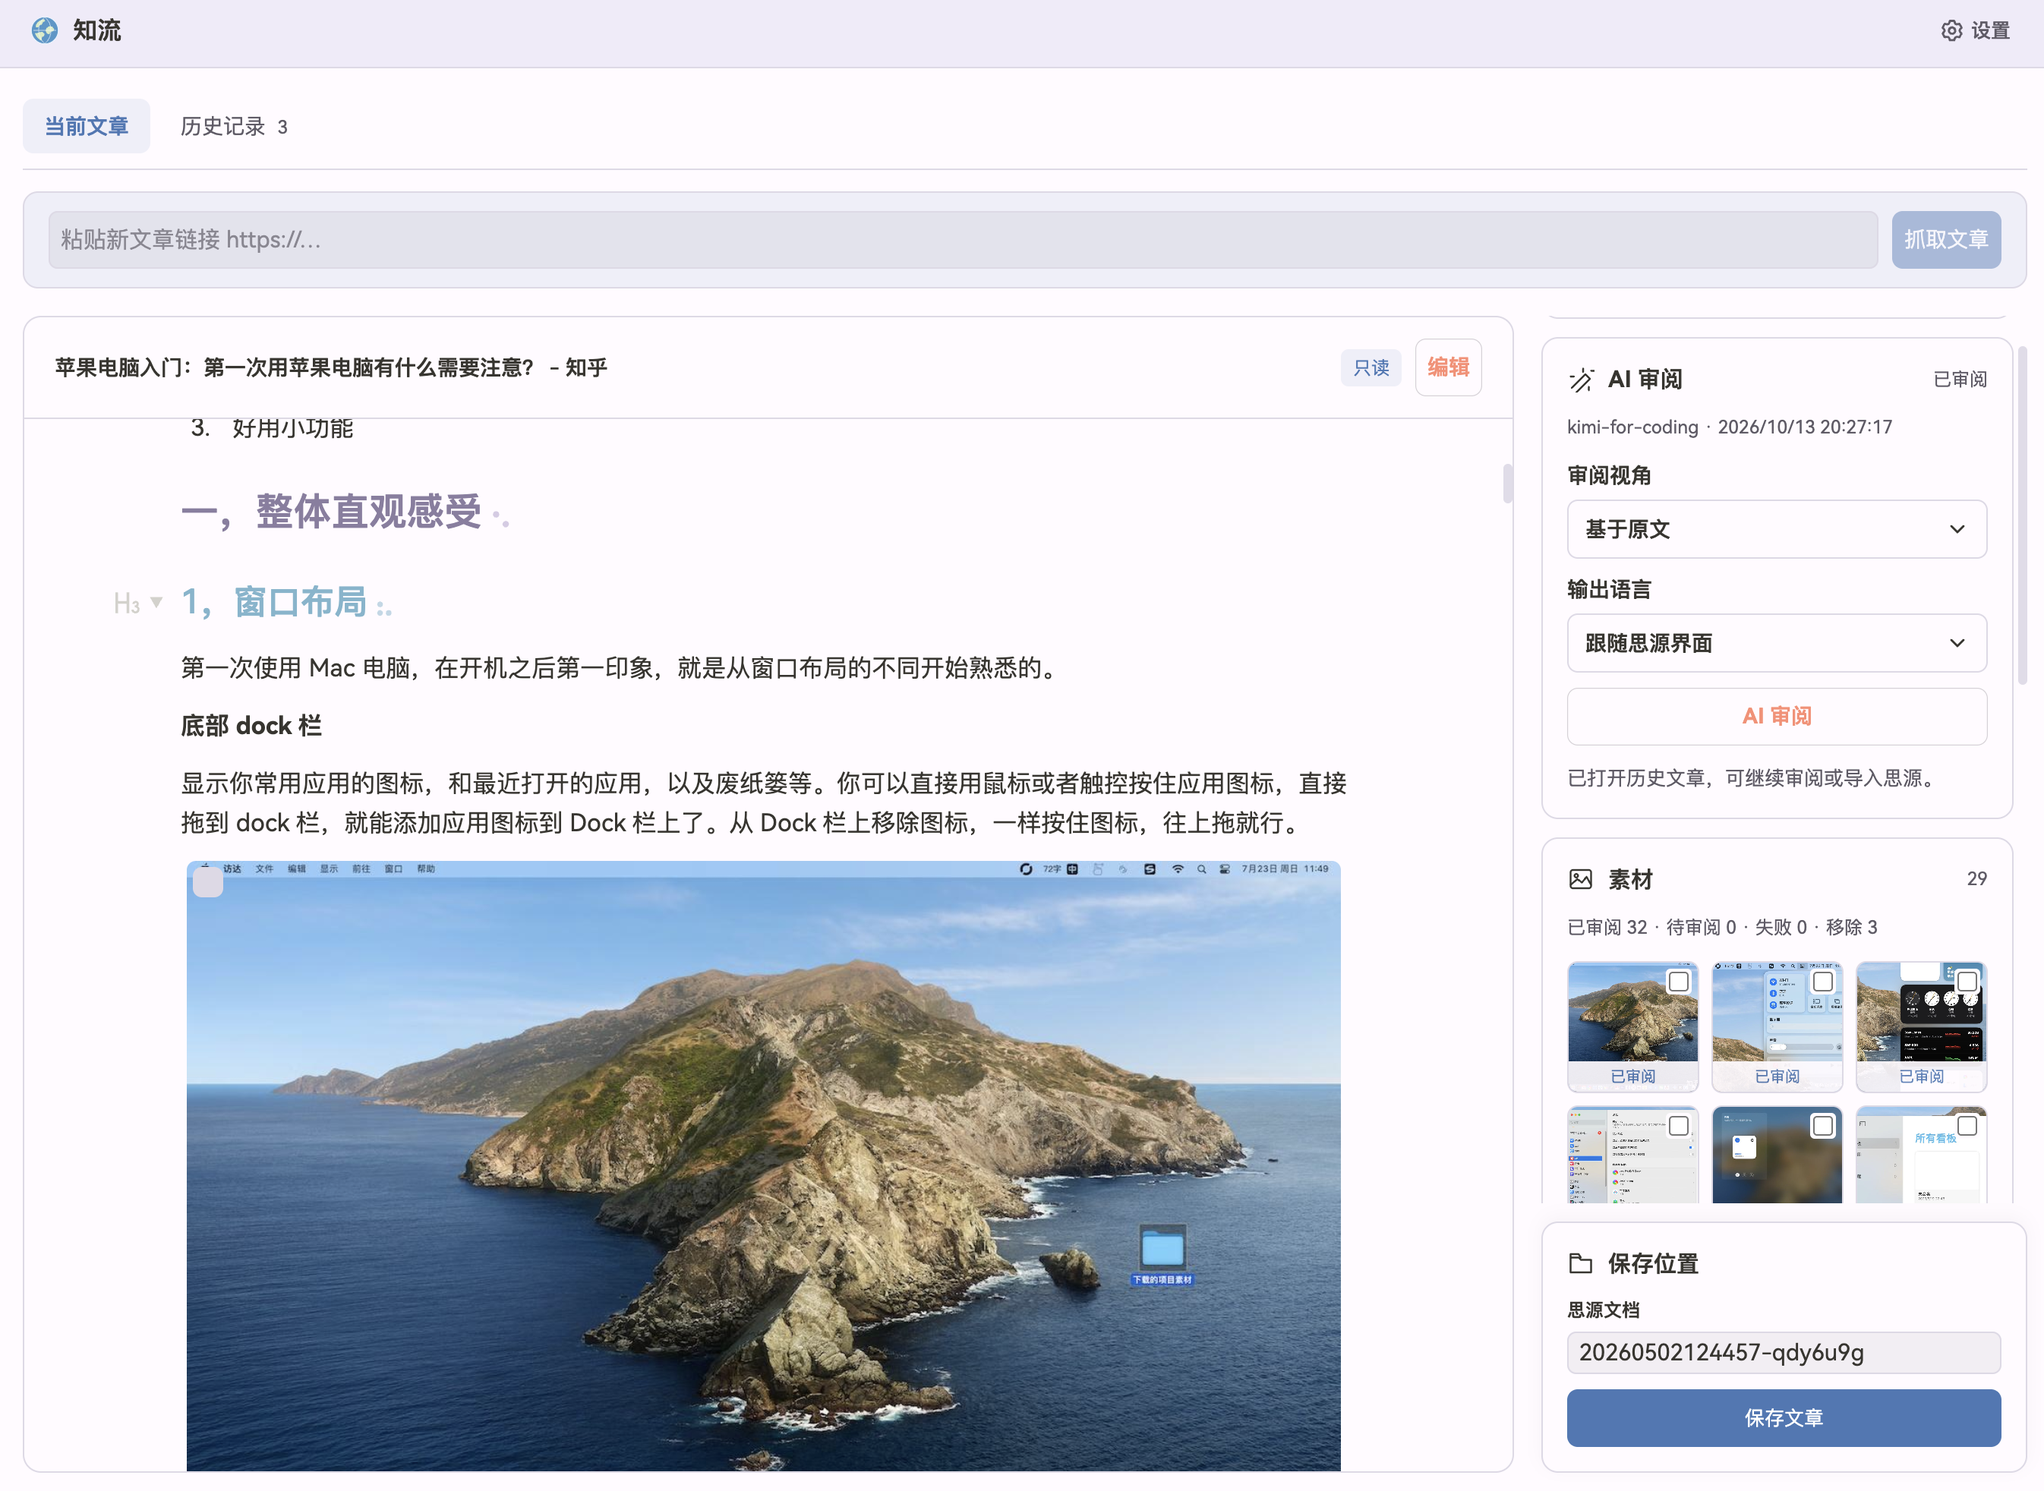
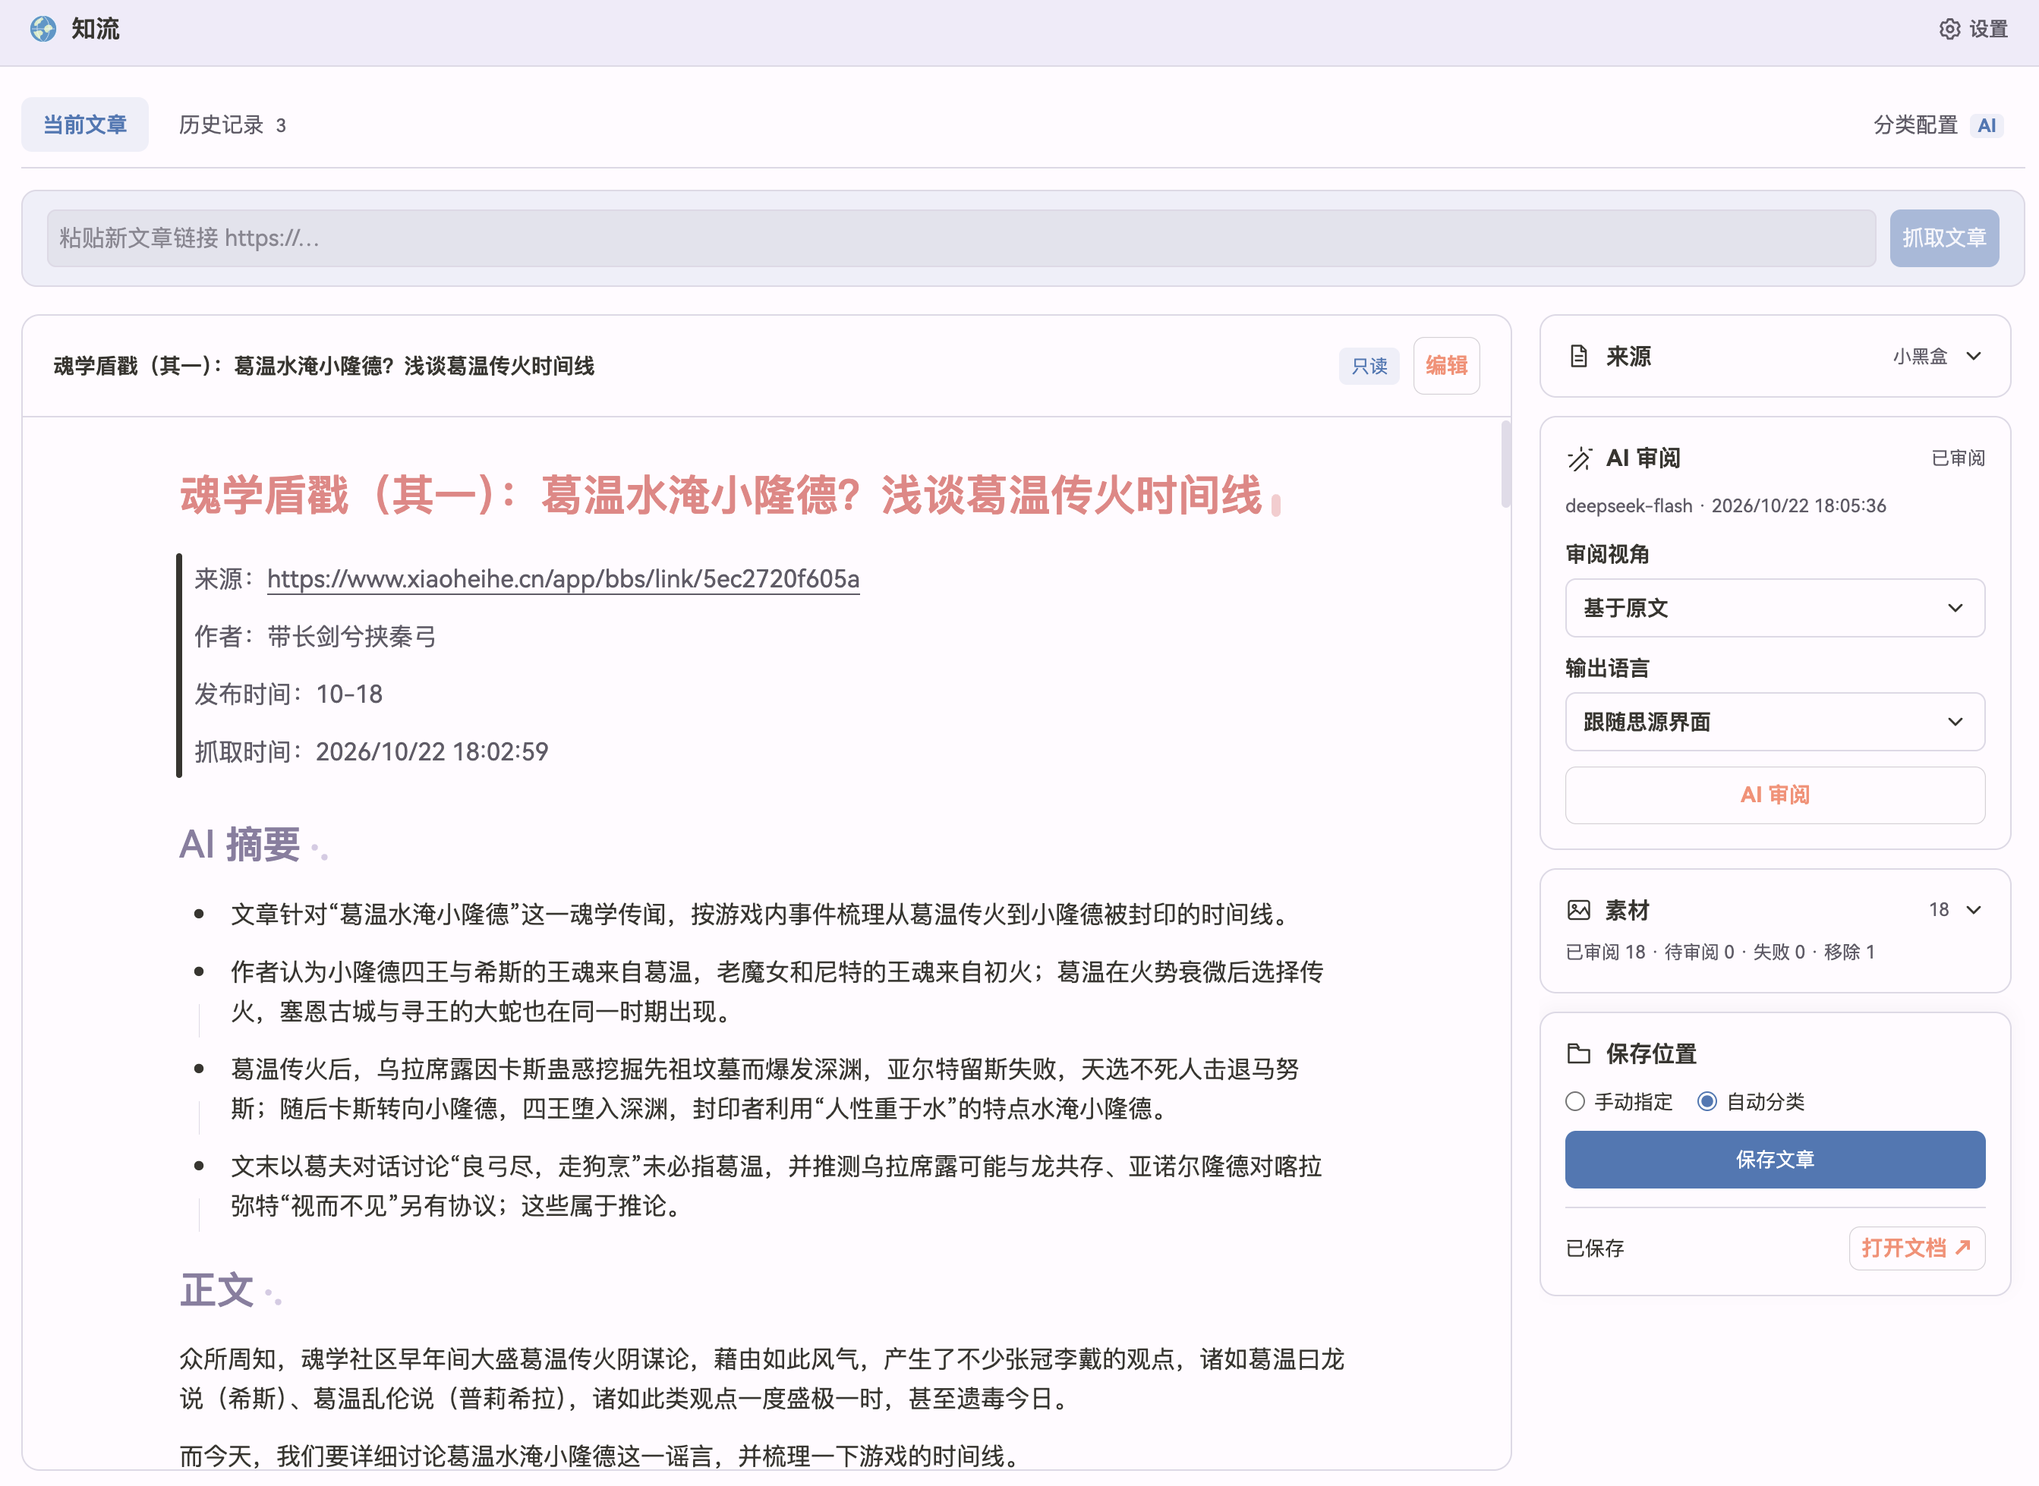
docs: 同步英文 README 和分类截图

diff --git a/.docs/README.en.md b/.docs/README.en.md
@@ -2,82 +2,68 @@
 
 [简体中文](../README.md)
 
-Capture web articles inside SiYuan, optionally review them with AI, edit them with SiYuan's native block editor, and save the text, source metadata and images to your workspace.
-
-**Web capture requires a Firecrawl API key. AI review is optional and requires your own model service configuration.** The plugin interface is primarily in Simplified Chinese; AI output can use the source language, Simplified Chinese or English.
+Capture web articles in SiYuan, optionally review them with AI, edit them with the native editor, and automatically classify them. Save the text, sources and images to your workspace.
 
 ## Features
 
-- Capture article text, images and available source metadata from a public URL.
-- Keep the captured original or review it with a configured model, perspective, output language and article format.
-- Edit inside the existing dialog with SiYuan's native block editor. Confirming an edit keeps it in the plugin; saving imports it into a SiYuan document.
-- Optionally review images, then manually restore or remove them before saving. Downloaded images go to SiYuan's asset directory; failed downloads retain their original links.
-- Preserve source metadata in separate paragraphs and keep searchable article history with processing results and destination choices.
-- Set the actual document title when saving to an empty unnamed document. Append an article to an existing document without replacing its content.
-- Automatically classify reviewed articles using category names, paths and descriptions. Manage nested categories and keep their directories updated as documents change.
-
-Protected image and link references receive up to three short AI repair attempts if damaged. If repair still fails, the reviewed text and original image inventory are retained for manual confirmation before saving.
-
-While editing, click thumbnails to select multiple images in order, then use Add or Remove in the asset toolbar. Add inserts the images at the caret or replaces the selected text in selection order; insertion never defaults to the article's end. Remove deletes all instances of the selected images from the body while keeping the originals available for reuse. Body edits, undo and redo also update asset status. Double-click to preview while editing, or single-click in read-only mode. Image details only show a preview; native drag, formatting and draft recovery are preserved.
-
-All platforms wait five seconds before article extraction to allow dynamic content to load. WeChat captures can fill missing author and publication fields from explicit article metadata and remove reader or comment interface text. Old and new Xiaoheihe share links are normalized to article URLs, with title cleanup and recovery. Recognized article cards provide missing author and date fields; comments and recommendations are removed while article images and polls are preserved. Zhihu login or verification pages are reported as capture failures.
-
-## Requirements
-
-Requires **SiYuan 3.8.6 or later**. The declared environments are Windows, macOS and Linux desktop clients, desktop windows, and desktop browser frontends, including Docker deployments. Mobile clients and SiYuan publishing-service pages are outside the supported scope.
+- **Web capture**: Extract article text, images and available source metadata, such as the author and publication date.
+- **Review and editing**: Choose an AI review perspective, language and format, or edit the original with SiYuan's native editor.
+- **Image management**: Filter images with AI or adjust them manually. Saving attempts to download images to SiYuan's asset directory.
+- **Automatic classification**: File articles by category name, path and description, with nested categories and automatically updated directories.
+- **History**: Keep originals, processed drafts and save destinations. Search, resume editing or open saved documents at any time.
 
 ## Quick start
 
-![ZhiLiu workbench: capture at the top, article editing on the left, AI review and images on the right, and the save destination at the bottom right](https://raw.githubusercontent.com/BorisZhangYYY/noosphere-siyuan/main/.docs/images/workbench.png)
+![ZhiLiu workbench: capture at the top, edit on the left, and review, manage images and save on the right](https://raw.githubusercontent.com/BorisZhangYYY/noosphere-siyuan/main/.docs/images/workbench.png)
 
-Capture new articles at the top and read and edit the body on the left. AI review, assets and the save destination share the scrolling right sidebar. Use Settings in the top-right corner to configure services.
+1. Install and enable the plugin, then click the globe icon in SiYuan's top toolbar.
+2. Open **Settings** at the top right and enter your **Firecrawl API key**. Configure a text model and an optional vision model for AI features.
+3. Paste a URL and click **Capture Article**. To change the text, click **Edit**, then **Confirm** when finished.
+4. Optionally choose a review perspective, output language and article format, then click **AI Review**. You can also save the original directly.
+5. Under **Save Destination**, choose **Manual**, enter the **document ID** copied from SiYuan's document menu, and click **Save Article**. For automatic filing, follow the steps below.
 
-1. Open the globe icon in SiYuan's top toolbar.
-2. Configure your Firecrawl API key. Configure text and optional vision models if you want AI review.
-3. Paste a URL at the top and capture it. Inspect the article on the left; click Edit to make changes, then Confirm to keep them.
-4. Optionally choose a review perspective and output language on the right, then start AI review. Click a thumbnail to preview it in read-only mode. While editing, select images with single clicks and use Add or Remove in the asset toolbar; double-click to preview.
-5. In manual mode, copy the destination **document ID** from SiYuan, enter it at the bottom right, and save the article.
-6. Open **Classification configuration** at the far right of the workbench tabs (marked AI), then enter a **notebook or root-document ID** as the anchor and save. Select automatic classification in the article save area. Destination fields are hidden in automatic mode; change the root only in Classification configuration. Once both text and image review finish successfully, the article is classified and saved automatically. Cancellation or review failure does not save it; a failed save keeps the completed review for retry.
+## Automatic classification
 
-### Prepare categories
+Create categories first. ZhiLiu uses their names, full paths and descriptions to save reviewed articles under a suitable category.
 
-- The category list appears directly below the location in Classification configuration. Add category and Edit open a form; choose a parent using the dropdown and write a description, or generate a draft with AI. Generation uses only the current category name and parent path, focusing on its topics, scope, and typical articles without comparisons or redirection to other categories. Confirm synchronization to write the category and description to SiYuan.
-- A selected root document contains the managed directory followed by usage instructions. Open root document appears beside the root ID field under Classification location and opens the currently entered location independently of the category list. When SiYuan's top-level notebook document feature is enabled, a notebook anchor uses its own root document. Older versions or disabled notebook documents still support notebook-wide classification without creating a separate overview. Category pages are locked by default; use Category management or unlock them in SiYuan to edit the description. Renaming a marked heading preserves its identity.
-- Root and category directories recursively show all descendant documents in SiYuan's order, including articles and unmarked folders. Index pages use 📚 and bold titles; content pages use 📄 and regular titles. Titles remain native dynamic references. Root instructions use eight short bullet points. Enable automatic directory creation to append a managed index below each category introduction on its first article save. Alternatively, mark an existing list block with a nonempty `custom-zl-index` attribute. Saving or opening the document refreshes its marked index; a failed refresh can be retried separately.
-- Unmatched articles and classification-service failures save into a separate article document at the anchor root, with an explanation. Repeated saves of the same source update the existing article, even after a title change. Different sources with identical titles get separate document names; unrelated notes are preserved.
+![ZhiLiu classification configuration: set the root, enable directory maintenance, and manage category names and descriptions](https://raw.githubusercontent.com/BorisZhangYYY/noosphere-siyuan/main/.docs/images/classify.png)
 
-Perspectives and article formats apply when you start AI review. Captured articles can also be saved directly. The original-author and novice perspectives are built in, read-only and cannot be deleted; add a custom perspective to make adjustments.
+1. Open **Classification Configuration** at the far right of the workbench tabs. Enter a **notebook or root-document ID**, optionally enable **Automatically create and maintain category directories**, and click **Save**.
+2. Under **Category Management**, click **Add Category**, fill in the name, parent category and description, then click **Create and Sync**. Write the description yourself or generate it with AI; it is written to SiYuan only after you confirm synchronization.
+3. Return to **Current Article**, switch the save mode to **Automatic Classification**, and click **AI Review**. Once text and image review finish, the article is filed automatically without another save click.
 
-Choose the output language in the workbench: follow the SiYuan interface (default), keep the source language, Simplified Chinese or English. The choice belongs to the current article and is retained in its history. New articles default to the interface language; an empty workbench also lets you choose a language before capturing. You can add, rename and delete named custom providers with separate credentials and models; built-in providers cannot be deleted.
+Descriptions define what each category accepts. Edit them in Category Management or the SiYuan document; changes apply to the next classification. Only categories within the selected root are considered. If no category fits or the classification service fails, the article is saved directly under the root with an explanation.
 
-Use Save beside the Settings heading; it stays visible while scrolling and keeps you on the settings page. After the status shows saved, use Return to Workbench. Empty API keys start visible while typing; stored keys start hidden and the eye button toggles visibility.
+With directory maintenance enabled, category pages show clickable, nested directories that update when documents are created, renamed, moved or deleted. Category index pages are locked by default; unlock them from SiYuan's document menu to edit directly. Articles remain editable.
 
-Drag providers to reorder them, then save Settings to keep the order. You can also focus a provider and use Alt/Option + Up/Down.
+## Usage notes
 
-The plugin creates no extra draft documents or notebooks. Manual mode retains per-article destinations and appends imports. Automatic mode remembers the anchor and updates the same source article. Changes made after an automatic save can be saved again with Save Article.
+- **Review and language**: Follow the SiYuan interface language, keep the source language, or choose Simplified Chinese or English. Built-in perspectives are read-only; you can add custom perspectives.
+- **Images**: Click to preview in read-only mode. While editing, click to select multiple images, double-click to preview, and use **Add** or **Remove** to adjust the body. Removed originals remain available; failed downloads retain their original links.
+- **Manual saving**: **Confirm** keeps your edits in the plugin; **Save Article** writes them to SiYuan. Saving appends to an existing document or sets the title of an empty unnamed document.
+- **Automatic saving**: Saving the same source again updates the existing article. Cancellation or review failure prevents automatic saving; a failed save keeps the reviewed draft for retry. Images or links marked for confirmation must be checked before saving manually.
+- **History**: Closing the window, disabling or upgrading the plugin preserves records. If a SiYuan document is deleted, its article remains available in history for saving again.
 
-Opening an article checks whether its saved SiYuan document still exists. Existing documents show Saved with a link; deleted documents show Unsaved without a link. The article remains available for saving elsewhere or automatic classification again. Restored documents are recognized on the next check; connection failures retain the previous status.
+See the [Changelog](https://github.com/BorisZhangYYY/noosphere-siyuan/blob/main/CHANGELOG.md) for version changes.
 
-Changes between versions are recorded in the [Changelog](https://github.com/BorisZhangYYY/noosphere-siyuan/blob/main/CHANGELOG.md).
+## Requirements
+
+Requires **SiYuan 3.8.6 or later**. Supports Windows, macOS and Linux desktop clients and desktop browser frontends, including Docker deployments. Mobile clients and SiYuan publishing-service pages are not currently supported.
 
 ## Services and data
 
-Capture sends the URL to Firecrawl. AI review sends the article text to your configured text model; automatic classification also sends category paths, descriptions and an article excerpt to that model; vision review sends images and an article summary to your configured image model. Service charges and quotas are determined by the providers.
+Web capture uses Firecrawl. AI review, classification and image filtering use your configured model services, whose providers determine fees and quotas. Depending on the feature, URLs, article text, category information or images are sent to the corresponding service.
 
-Settings, API keys and article records are stored in the current workspace's plugin storage. Imported text and downloaded images are stored in SiYuan documents and assets. Closing, disabling or upgrading the plugin preserves article records.
+Settings, API keys and article records are stored in the current SiYuan workspace's plugin storage. Saved text and downloaded images are stored in SiYuan documents and assets.
 
-## Development
+## Development and feedback
 
-See [Development environment and architecture](../.project/development.md) for the project structure, processing flow and build instructions.
-
-## Feedback and contributions
-
-Report problems or suggestions through [Issues](https://github.com/BorisZhangYYY/noosphere-siyuan/issues). Read the [feedback and contribution guidelines](../CONTRIBUTING.md) before submitting.
+See [Development environment and architecture](../.project/development.md) for development details. Report problems or suggestions through [Issues](https://github.com/BorisZhangYYY/noosphere-siyuan/issues), and read the [contribution guidelines](../CONTRIBUTING.md) before contributing.
 
 Licensed under [MIT](https://github.com/BorisZhangYYY/noosphere-siyuan/blob/main/LICENSE).
 
 ## Acknowledgements
 
-- [SiYuan](https://github.com/siyuan-note/siyuan) for its block editor, plugin APIs, and document and asset management.
+- [SiYuan](https://github.com/siyuan-note/siyuan) for its editor, plugin APIs and document management.
 - [Firecrawl](https://www.firecrawl.dev/) for web article and metadata extraction.
-- [siyuan-plugins-index](https://github.com/Szerelem0617/siyuan-plugins-index) for its open-source code and directory mechanism, which provided the foundation for automatically creating and updating ZhiLiu's category index directories.
+- [siyuan-plugins-index](https://github.com/Szerelem0617/siyuan-plugins-index) for open-source code and mechanisms used as a reference for category directories. No separate installation is required.
